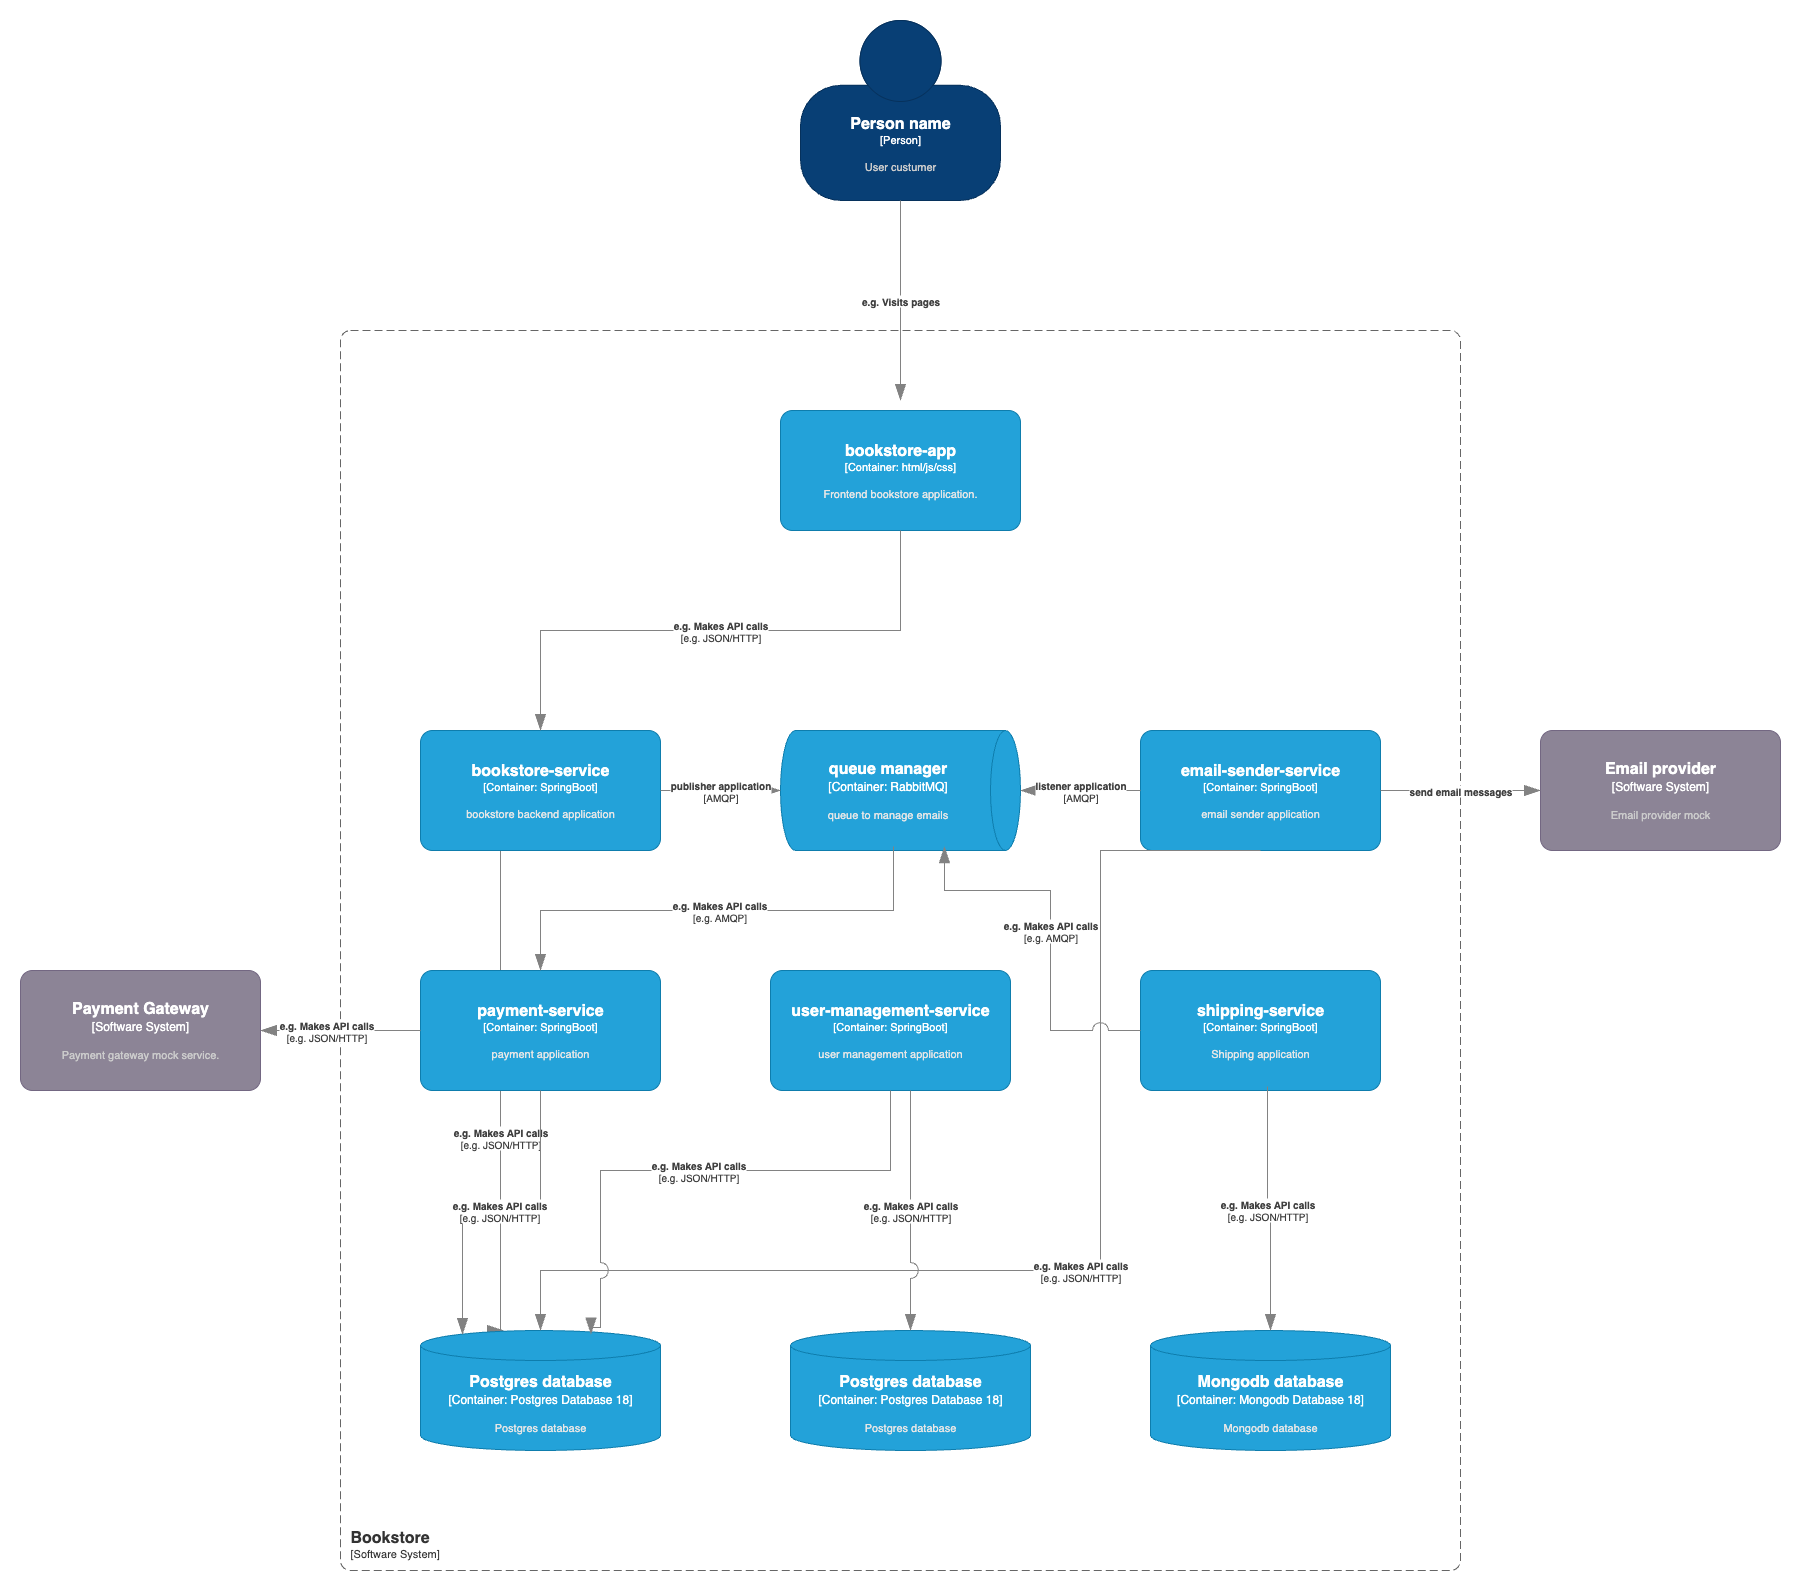
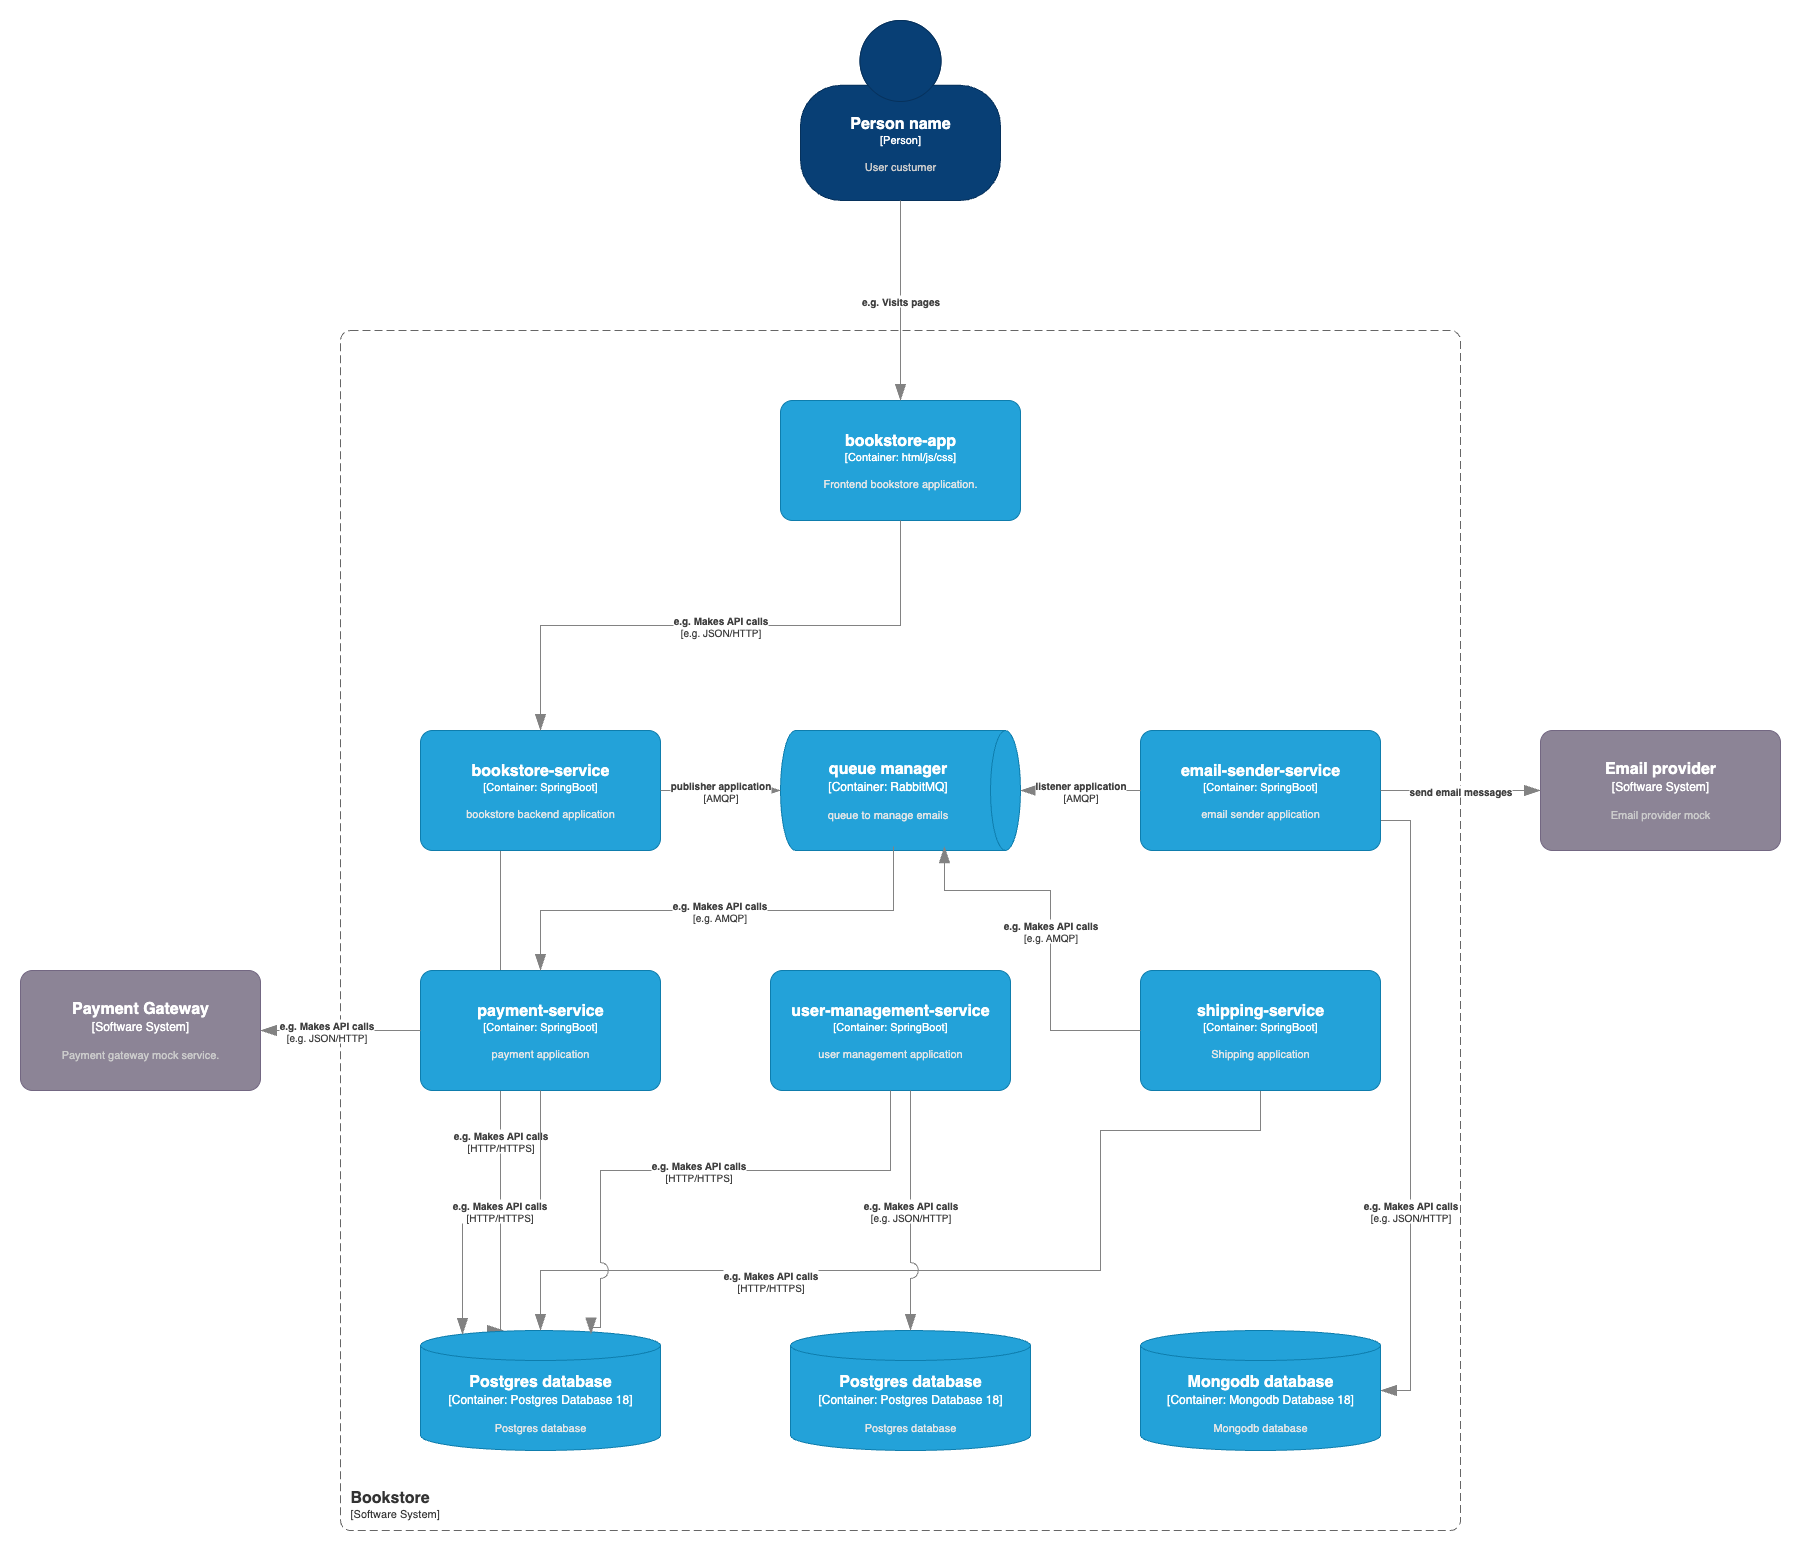
Update database configurations

diff --git a/applications/shipping/src/main/java/br/com/shipping_service/entities/Shipping.java b/applications/shipping/src/main/java/br/com/shipping_service/entities/Shipping.java
@@ -1,38 +1,32 @@
 package br.com.shipping_service.entities;
 
 
-import org.bson.types.ObjectId;
+import jakarta.persistence.*;
 import org.springframework.data.annotation.Transient;
-import org.springframework.data.mongodb.core.mapping.Document;
-import org.springframework.data.mongodb.core.mapping.Field;
-import org.springframework.data.mongodb.core.mapping.MongoId;
 
 import java.time.LocalDateTime;
 
-@Document(collection = "shipping")
+@Entity
+@Table(name = "tb_shipping")
 public class Shipping {
 
-    @MongoId
-    @Field(name = "_id")
-    private ObjectId _id;
+    @Id
+    @GeneratedValue(strategy = GenerationType.IDENTITY)
+    private Long id;
 
-    @Field("state")
     private String state;
 
-    @Field("city")
     private String city;
 
-    @Field("book")
     private String book;
 
-    @Field("sentAt")
+    @Column(name = "sent_at")
     private LocalDateTime sentAt;
 
-//    @Field("status")
     @Transient
     private ShippingStatus status;
 
-    @Field("publicIdentifier")
+    @Column(name = "public_identifier")
     private String publicIdentifier;
 
     public Shipping() {
@@ -80,7 +74,7 @@ public class Shipping {
         this.publicIdentifier = publicIdentifier;
     }
 
-    public ObjectId getId() {
-        return _id;
+    public Long getId() {
+        return id;
     }
 }

diff --git a/applications/email-sender/src/main/java/br/com/email_sender/entities/EmailMessage.java b/applications/email-sender/src/main/java/br/com/email_sender/entities/EmailMessage.java
@@ -1,35 +1,31 @@
 package br.com.email_sender.entities;
 
-import jakarta.persistence.*;
 
-@Entity
-@Table(name = "tb_email_message")
+import org.bson.types.ObjectId;
+import org.springframework.data.annotation.Id;
+import org.springframework.data.mongodb.core.mapping.Document;
+import org.springframework.data.mongodb.core.mapping.Field;
+
+@Document(collection = "email_message")
 public class EmailMessage {
 
     @Id
-    @GeneratedValue(strategy = GenerationType.IDENTITY)
-    private Long id;
+    private ObjectId id;
 
-    @Column(name = "email", nullable = false)
+    @Field(name = "email")
     private String email;
 
-    @Column(name = "user_name", nullable = false)
+    @Field(name = "user_name")
     private String userName;
 
-    @Column
     private String book;
 
-    @Column
     private String shippingId;
 
-    @Column
     private String city;
 
-    @Column
     private String state;
 
-    @Column
-    @Enumerated(EnumType.STRING)
     private EmailTemplate template;
 
     private String status;
@@ -50,12 +46,8 @@ public class EmailMessage {
         this.status = "WAITING_PAYMENT";
     }
 
-    public Long getId() {
+    public ObjectId getId() {
         return id;
-    }
-
-    public void setId(Long id) {
-        this.id = id;
     }
 
     public String getEmail() {

diff --git a/applications/shipping/src/main/java/br/com/shipping_service/services/ShippingService.java b/applications/shipping/src/main/java/br/com/shipping_service/services/ShippingService.java
@@ -7,12 +7,10 @@ import br.com.shipping_service.dtos.UserResponseDTO;
 import br.com.shipping_service.entities.EmailTemplate;
 import br.com.shipping_service.entities.Shipping;
 import br.com.shipping_service.repositories.ShippingRepository;
-import org.bson.types.ObjectId;
 import org.springframework.stereotype.Service;
 import org.springframework.transaction.annotation.Transactional;
 
 import java.util.List;
-import java.util.UUID;
 
 @Service
 public class ShippingService {
@@ -49,9 +47,9 @@ public class ShippingService {
 
     }
 
-    public Shipping findById(String id) {
+    public Shipping findById(Long id) {
         return repository
-                .findById(new ObjectId(id))
+                .findById(id)
                 .orElseThrow(() -> new RuntimeException("Shipping not found"));
     }
 

diff --git a/applications/shipping/src/main/java/br/com/shipping_service/repositories/ShippingRepository.java b/applications/shipping/src/main/java/br/com/shipping_service/repositories/ShippingRepository.java
@@ -1,12 +1,11 @@
 package br.com.shipping_service.repositories;
 
 import br.com.shipping_service.entities.Shipping;
-import org.bson.types.ObjectId;
-import org.springframework.data.mongodb.repository.MongoRepository;
+import org.springframework.data.jpa.repository.JpaRepository;
 
 import java.util.List;
 
-public interface ShippingRepository extends MongoRepository<Shipping, ObjectId> {
+public interface ShippingRepository extends JpaRepository<Shipping, Long> {
 
     List<Shipping> findByPublicIdentifier(String publicIdentifier);
 

diff --git a/applications/email-sender/src/main/java/br/com/email_sender/repositories/EmailMessageRepository.java b/applications/email-sender/src/main/java/br/com/email_sender/repositories/EmailMessageRepository.java
@@ -1,9 +1,10 @@
 package br.com.email_sender.repositories;
 
 import br.com.email_sender.entities.EmailMessage;
-import org.springframework.data.jpa.repository.JpaRepository;
+import org.bson.types.ObjectId;
+import org.springframework.data.mongodb.repository.MongoRepository;
 import org.springframework.stereotype.Repository;
 
 @Repository
-public interface EmailMessageRepository extends JpaRepository<EmailMessage, Long> {
+public interface EmailMessageRepository extends MongoRepository<EmailMessage, ObjectId> {
 }

diff --git a/applications/shipping/src/main/java/br/com/shipping_service/controllers/ShippingController.java b/applications/shipping/src/main/java/br/com/shipping_service/controllers/ShippingController.java
@@ -48,9 +48,9 @@ public class ShippingController {
     public Shipping getById(
             @Parameter(
                     description = "Internal ID of the shipping record",
-                    example = "670f531de2b4b627d3a4b9c1"
+                    example = "1"
             )
-            @PathVariable String id
+            @PathVariable Long id
     ) {
         return shippingService.findById(id);
     }

diff --git a/applications/email-sender/src/main/java/br/com/email_sender/services/EmailMessageService.java b/applications/email-sender/src/main/java/br/com/email_sender/services/EmailMessageService.java
@@ -1,6 +1,5 @@
 package br.com.email_sender.services;
 
-import br.com.email_sender.controllers.EmailListener;
 import br.com.email_sender.dtos.EmailMessageRequest;
 import br.com.email_sender.dtos.UserResponseDTO;
 import br.com.email_sender.entities.EmailMessage;
